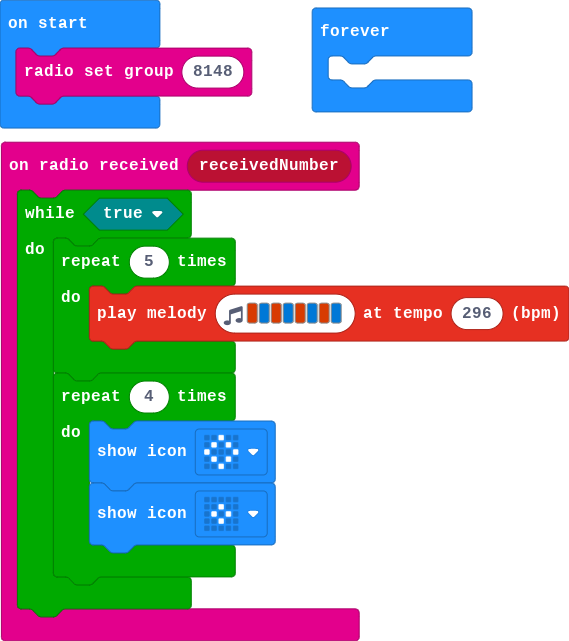
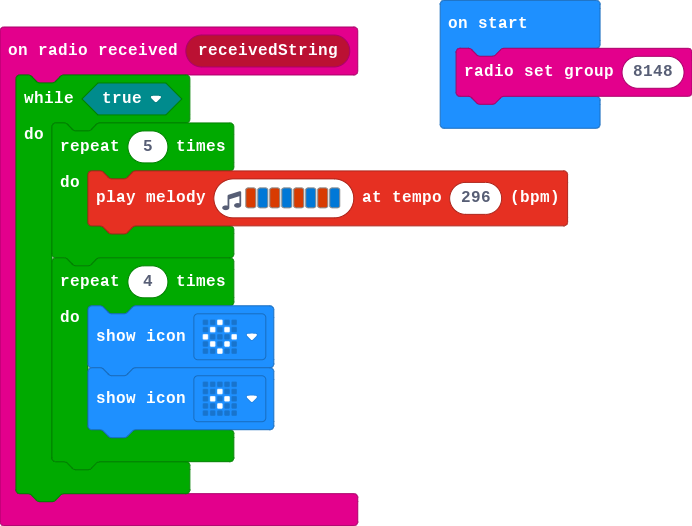
Update main.blocks, main.ts

diff --git a/main.ts b/main.ts
@@ -1,4 +1,4 @@
-radio.onReceivedNumber(function (receivedNumber) {
+radio.onReceivedString(function (receivedString) {
     while (true) {
         for (let index = 0; index < 5; index++) {
             music.playMelody("B E B E B E B E ", 296)
@@ -10,6 +10,3 @@ radio.onReceivedNumber(function (receivedNumber) {
     }
 })
 radio.setGroup(8148)
-basic.forever(function () {
-	
-})
